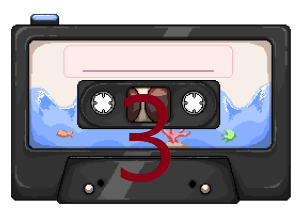
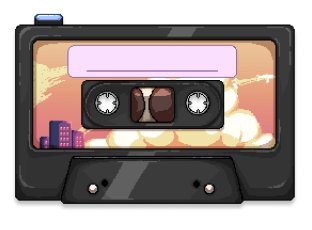
FEAT : 카세트 테이프 디자인 커스터마이징 기능 구현

diff --git a/css/writing.css b/css/writing.css
@@ -49,6 +49,7 @@
   box-shadow: 5px 5px 5px 5px gray inset;
   border: 1px solid black;
 }
+
 .input-text {
   color: black;
   background-color: white;
@@ -203,8 +204,8 @@ input:nth-child(2) {
   border-radius: 3px;
   border: 1px solid #565966;
   background: linear-gradient(#fff3f3, #ffc6c6, #fff3f3);
-  position: relative;
-  bottom: -67px;
+  position: absolute;
+  bottom: 15px;
   left: 170px;
 }
 /* waterDrop */
